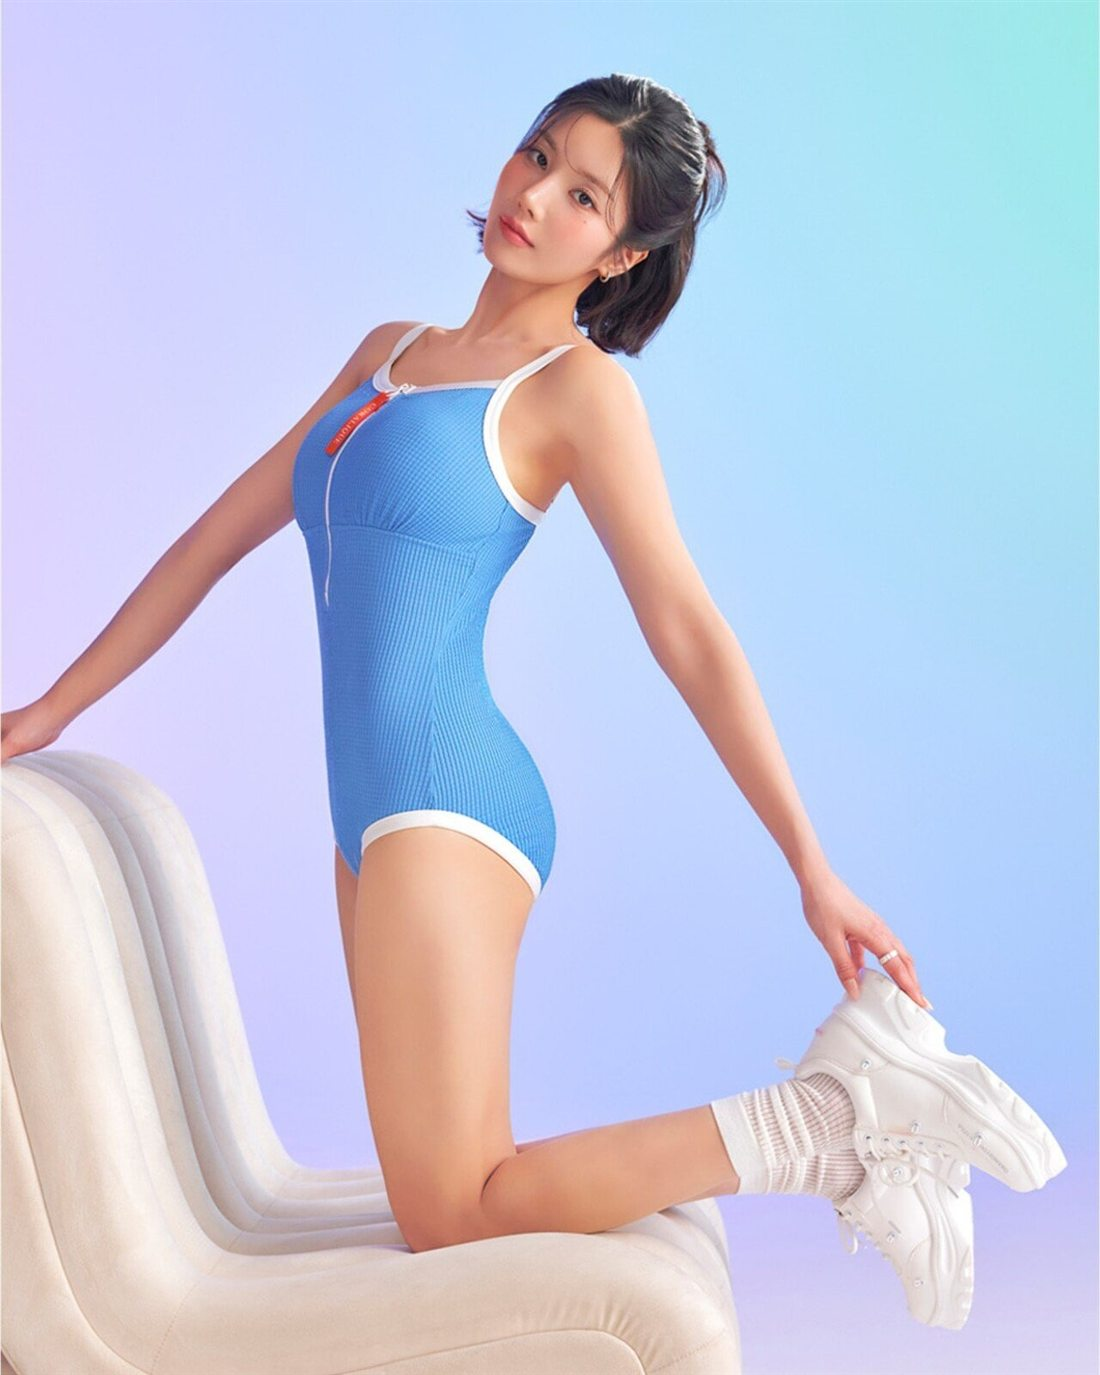
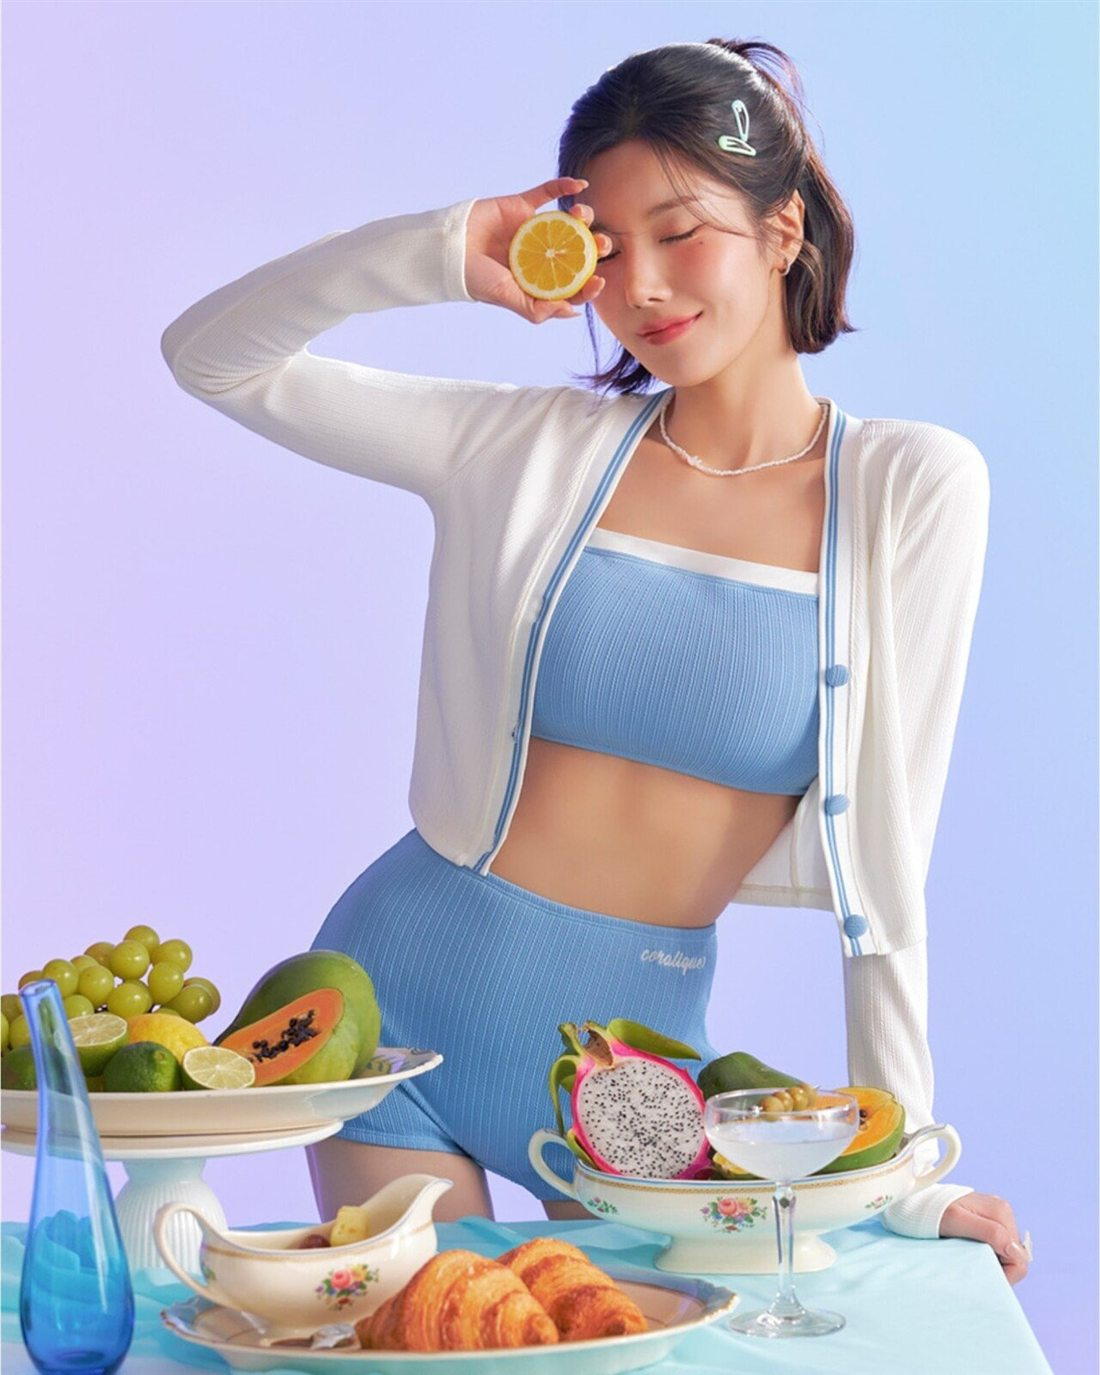
코랄리크 모바일: 과일 테이블 컷으로 교체, 그라데이션 색 #bddafa

diff --git a/style.css b/style.css
@@ -915,9 +915,9 @@ html.intro-on .intro{display:block;position:fixed;inset:0;z-index:1000;backgroun
 
 /* 코랄리크(모바일): 진한 청록 → 사진 위쪽의 연한 아쿠아로 단계적으로 이어지게 */
 @media (max-width:800px){
-  .hero--coralique .pj-hero__r{background:#b7dbf9}
-  .hero--coralique .pj-hero__l{position:relative;padding-bottom:clamp(48px,14vw,84px);margin-bottom:-1px;background:linear-gradient(180deg,#1f7f99 0,#1f7f99 55%,#6fb0d6 80%,#b7dbf9 100%)}
-  .hero--coralique{background:#b7dbf9}
+  .hero--coralique .pj-hero__r{background:#bddafa}
+  .hero--coralique .pj-hero__l{position:relative;padding-bottom:clamp(48px,14vw,84px);margin-bottom:-1px;background:linear-gradient(180deg,#1f7f99 0,#1f7f99 55%,#6fb0d6 80%,#bddafa 100%)}
+  .hero--coralique{background:#bddafa}
   .hero--coralique .pj-hero__r img{-webkit-mask-image:linear-gradient(180deg,transparent 0,#000 7%);mask-image:linear-gradient(180deg,transparent 0,#000 7%)}
 }
 
